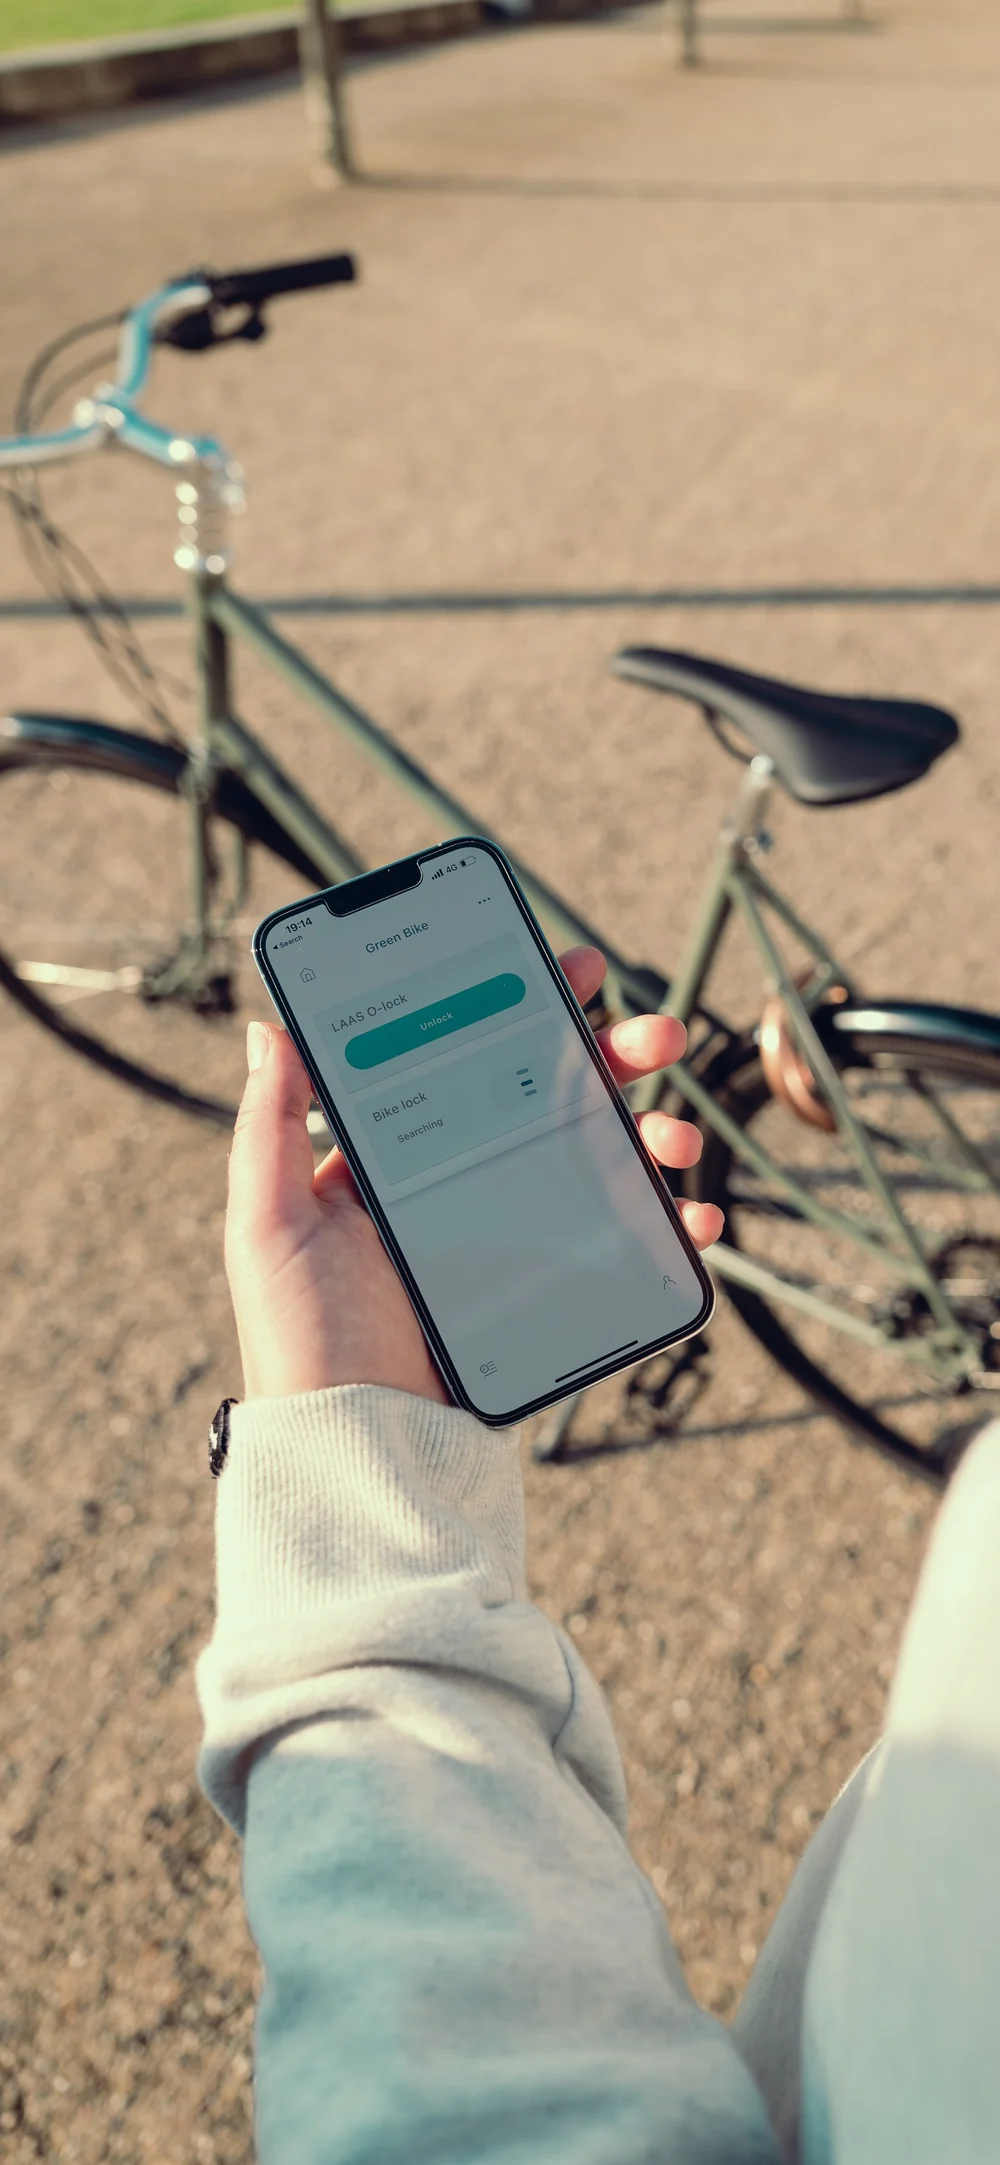
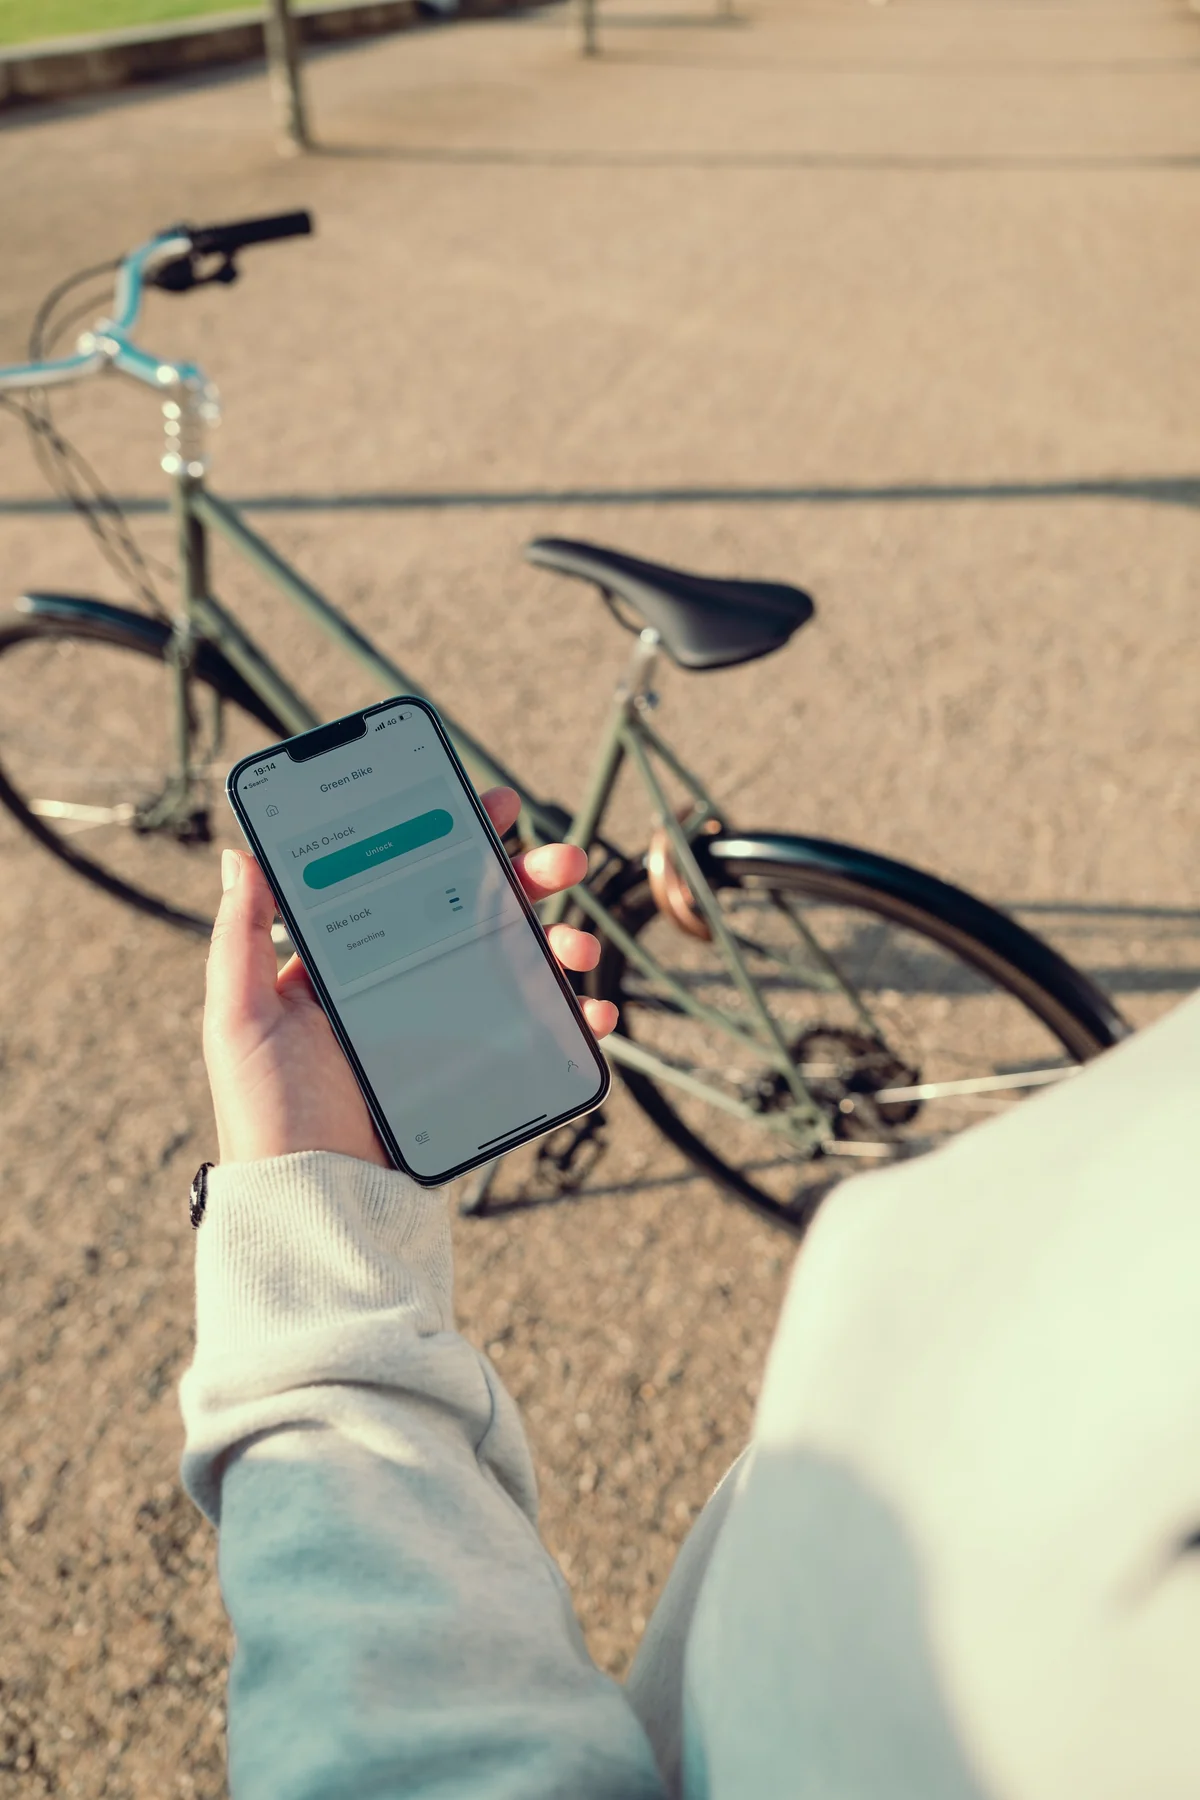
Story frames 2 and 3 on phones and tablets: the whole photo, so the screen shows as much as its shape allows

diff --git a/index.html b/index.html
@@ -22,7 +22,7 @@
 <link rel="preload" href="fonts/inter-400-600-latin.woff2" as="font" type="font/woff2" crossorigin>
 <link rel="preload" href="images/lock/steel-00-800.webp" as="image" type="image/webp" media="(max-width: 900px)">
 <link rel="preload" href="images/lock/steel-00-1600.webp" as="image" type="image/webp" media="(min-width: 901px)">
-<link rel="stylesheet" href="darkroom.css?v=1019j">
+<link rel="stylesheet" href="darkroom.css?v=1019k">
 <script>
   // the loader only exists when scripts run; if the 3D engine never arrives, the page still opens
   document.documentElement.classList.add('is-loading');
@@ -199,8 +199,8 @@
   <section class="tale" id="moved" data-nav-section="intro" data-tone="dark" data-bg="#202F30" data-key='{"hide":1}' aria-labelledby="h1c">
     <div class="tale__pin">
       <figure class="tale__shot is-on" data-i="0"><picture><source media="(max-width: 760px)" srcset="images/story/crowd-m.webp"><img src="images/story/crowd-wide.webp" alt="She looks around a park, trying to remember where she parked" decoding="async"></picture></figure>
-      <figure class="tale__shot" data-i="1"><picture><source media="(max-width: 760px)" srcset="images/story/findmy-m.webp?v=6"><img src="images/story/findmy-wide.webp?v=8" alt="On her iPhone, a map shows where her bike is" decoding="async"></picture></figure>
-      <figure class="tale__shot" data-i="2"><picture><source media="(max-width: 760px)" srcset="images/story/unlock2-m.webp?v=3"><img src="images/story/unlock-wide.webp?v=5" alt="Standing at the bike, a hand holds the phone with the LAAS app and its Unlock button" decoding="async" loading="lazy"></picture></figure>
+      <figure class="tale__shot" data-i="1"><picture><source media="(max-width: 760px)" srcset="images/story/findmy-m.webp?v=7"><img src="images/story/findmy-wide.webp?v=8" alt="On her iPhone, a map shows where her bike is" decoding="async"></picture></figure>
+      <figure class="tale__shot" data-i="2"><picture><source media="(max-width: 760px)" srcset="images/story/unlock2-m.webp?v=4"><img src="images/story/unlock-wide.webp?v=5" alt="Standing at the bike, a hand holds the phone with the LAAS app and its Unlock button" decoding="async" loading="lazy"></picture></figure>
       <figure class="tale__shot" data-i="3"><picture><source media="(max-width: 760px)" srcset="images/story/ride-m.webp"><img src="images/story/ride-wide.webp" alt="She rides away across the square" decoding="async" loading="lazy"></picture></figure>
       <div class="tale__copy">
         <p class="tale__index label"><span class="tale__count"><b>01</b> / 04</span> Ring-Lock</p>

diff --git a/darkroom.css b/darkroom.css
@@ -1636,8 +1636,8 @@ html[data-tone="dark"] .nav__price { background: rgba(32, 47, 48, .12); }
 @media (max-width: 760px) {
   /* on a phone every frame reads the same way: the words at the bottom, the picture above them */
   .tale__shot img { object-position: 50% 40% !important; }
-  .tale__shot[data-i="1"] img { object-position: 45% 30% !important; }
-  .tale__shot[data-i="2"] img { object-position: 50% 45% !important; }
+  .tale__shot[data-i="1"] img { object-position: 32% 50% !important; }
+  .tale__shot[data-i="2"] img { object-position: 30% 50% !important; }
   .tale__index { margin-bottom: 16px; }
 }
 @media (prefers-reduced-motion: reduce) { .tale__shot, .tale__shot img, .tale__line { transition: none; } }
@@ -2008,7 +2008,7 @@ html[data-tone="dark"] .nav__bag b, html.in-tale .nav__bag b { background: #ECEC
   .tale__pin::after { background: linear-gradient(0deg, rgba(20, 32, 33, .92) 0%, rgba(20, 32, 33, .6) 30%, rgba(20, 32, 33, 0) 58%); }
   .tale__dots { bottom: 28px; right: calc(var(--gutter) + 56px); gap: 5px; }
   .tale__pause { bottom: 17px; }
-  .tale__shot[data-i="2"] img { object-position: 50% 45% !important; }
+  .tale__shot[data-i="2"] img { object-position: 30% 50% !important; }
 }
 @media (min-width: 761px) and (max-width: 1100px) and (max-aspect-ratio: 1/1) { .tale__copy { width: auto; right: var(--gutter); } .tale__line { font-size: clamp(54px, 9vw, 84px); } }
 @media (min-width: 1101px) { .tale__pin::after { background: linear-gradient(90deg, rgba(20, 32, 33, .72) 0%, rgba(20, 32, 33, .3) 30%, rgba(20, 32, 33, 0) 46%), linear-gradient(0deg, rgba(20, 32, 33, .55) 0%, rgba(20, 32, 33, 0) 32%); } .tale__copy { width: min(620px, 36vw); } .tale__line { font-size: clamp(52px, 6vw, 112px); } }
